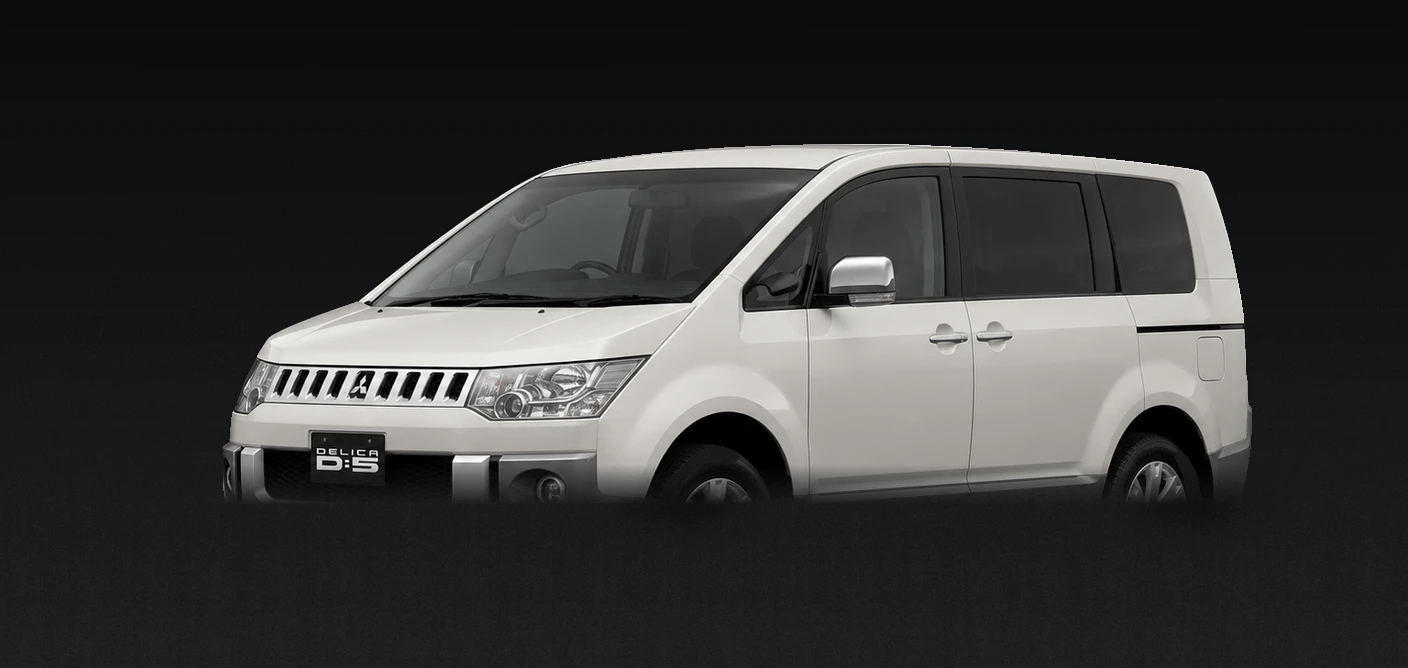
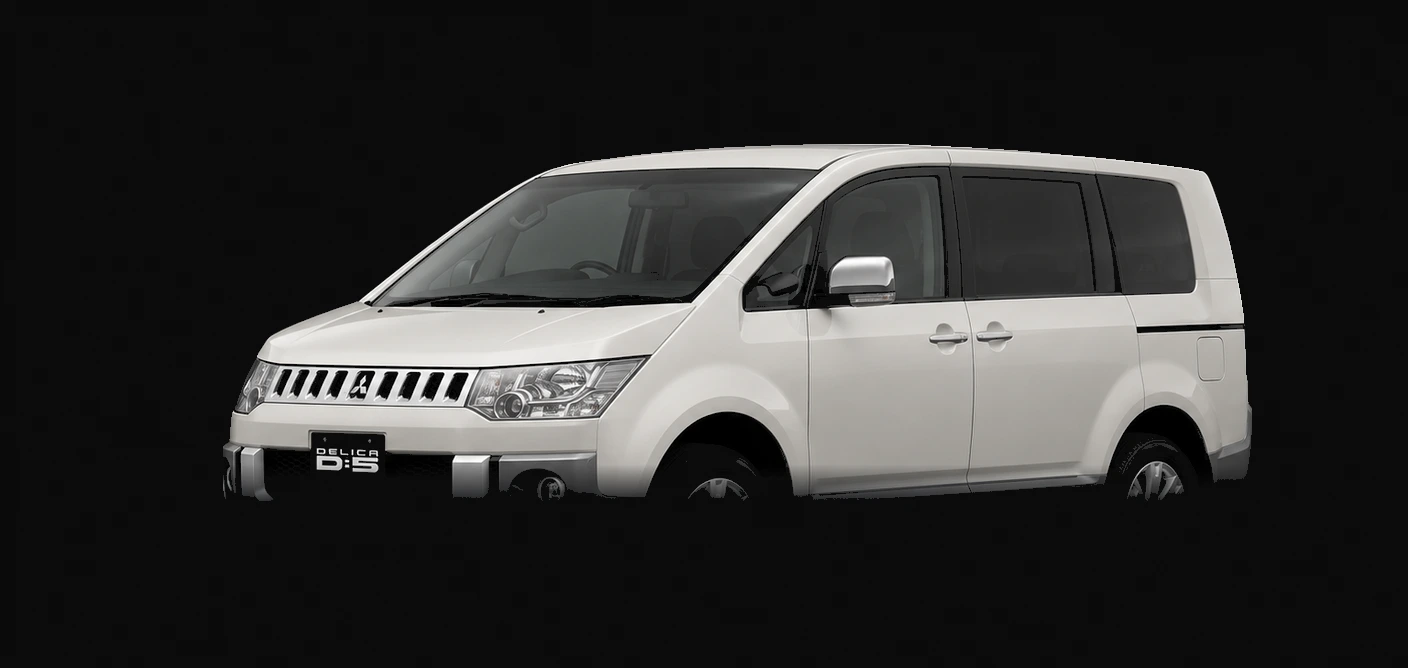
fix: Delica floor - reset to flat black instead of textured gradient
User feedback against the deployed page: the whole-frame noise fix
(previous commit) killed the band but produced a pale haze over the
lower half, working against this brand's actual look (flat black
studio, grounding via contact shadow only, not a floor gradient).

Reset instead of iterating further: every background pixel becomes one
flat near-black tone matching the frame's own top corners, no gradient,
no noise. Car/tire pixels are untouched, so the natural darkening
already present at tire contact is the only ground cue -- same
construction as VOXY/SERENA.

diff --git a/src/cars/delica-d5.js b/src/cars/delica-d5.js
@@ -58,22 +58,30 @@
 // reference image (real photo): its background stddev is never 0 at
 // any row, rising gradually toward the bottom, matching real sensor
 // grain everywhere, not just near the tires.
-// (7, 2026-08-01, current) Added subtle luminance noise (Gaussian,
-// sigma rising from ~0.5 near the top to ~2.2 near the bottom, matching
-// Serena's own measured grain trend) to every background-classified
-// pixel across the WHOLE frame, not a localized zone -- classification
-// is per-row distance from a guaranteed-background baseline column
-// (x=5, confirmed clear of the car silhouette at every row), so the
-// car body/tires/glass are untouched and only the synthetic field gets
-// grain. This removes the flat-vs-textured boundary at its root instead
-// of relocating it. Verified by re-measuring row stddev after the fix
-// (now non-zero at every sampled row, gen1 and gen2 both) and by
-// reading the actual output files at normal scale. Reusable lesson: a
-// synthetic background composited behind a real photo needs texture
-// applied to its full extent, not just the region judged "close to the
-// car" -- any leftover perfectly-flat area is itself the defect, since
-// it contrasts with literally every other pixel in the frame that came
-// from a real sensor.
+// (7, 2026-08-01) Added subtle luminance noise across the whole
+// background instead of just the floor zone -- fixed the band, but
+// direct user feedback against the rendered page caught a new problem:
+// noise density that high (touching ~70-77% of the frame) read as a
+// pale haze over the entire lower half, working against this brand's
+// actual target look (flat black studio, car reads as grounded purely
+// by contact shadow -- see VOXY/SERENA). Adding texture was solving
+// the wrong problem: this background was never a real photo needing
+// grain to blend into, it's a synthetic reconstruction that should
+// just commit to being flat.
+// (8, 2026-08-01, current) Reset, not iterated-on: every background
+// pixel (same per-row-baseline classification as v7, so car body/
+// tires/glass stay untouched) is now one flat near-black RGB value --
+// the same tone as the frame's own top corners -- with 1-level dither
+// only to prevent 8-bit banding, no gradient, no noise. No separate
+// floor treatment at all; whatever natural darkening already existed
+// right at the tire base (outside the background threshold, so never
+// touched by any of these passes) is the only ground-contact cue,
+// matching VOXY/SERENA's actual construction. Verified by reading the
+// output files directly (solid black, no seam, no haze) after this
+// exact failure mode -- v5's x-independent brightening curve -- was
+// the diagnosed cause of the original band; re-adding any brightness
+// gradient here should be treated as regressing a known-bad approach,
+// not a variant worth re-trying.
 const generations = [
   {
     numeral: 'I',
